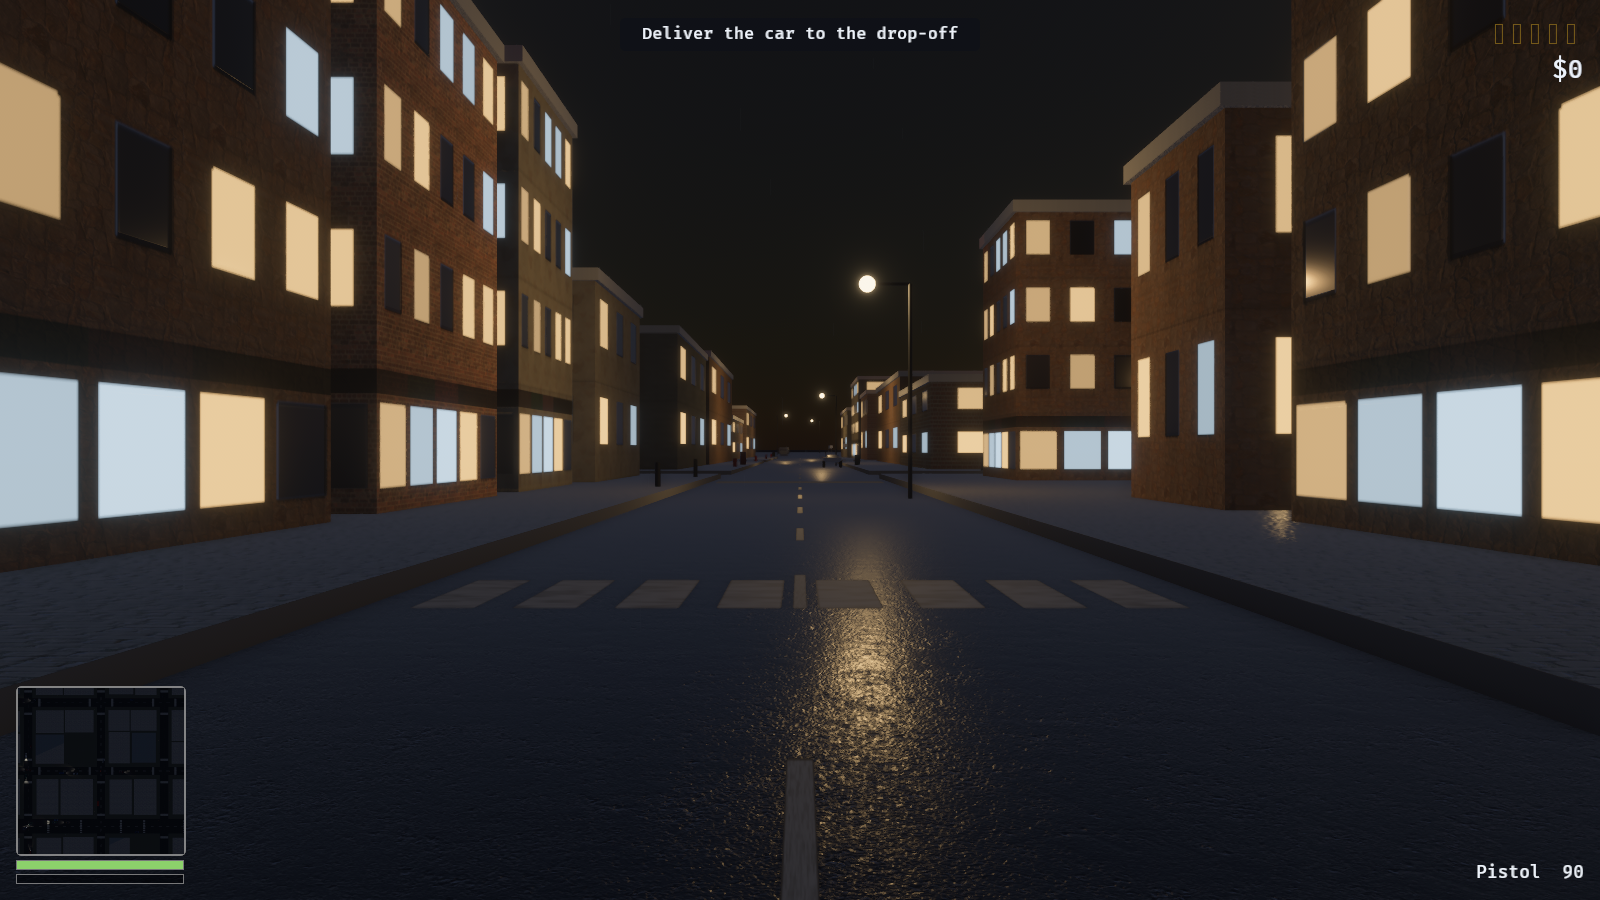
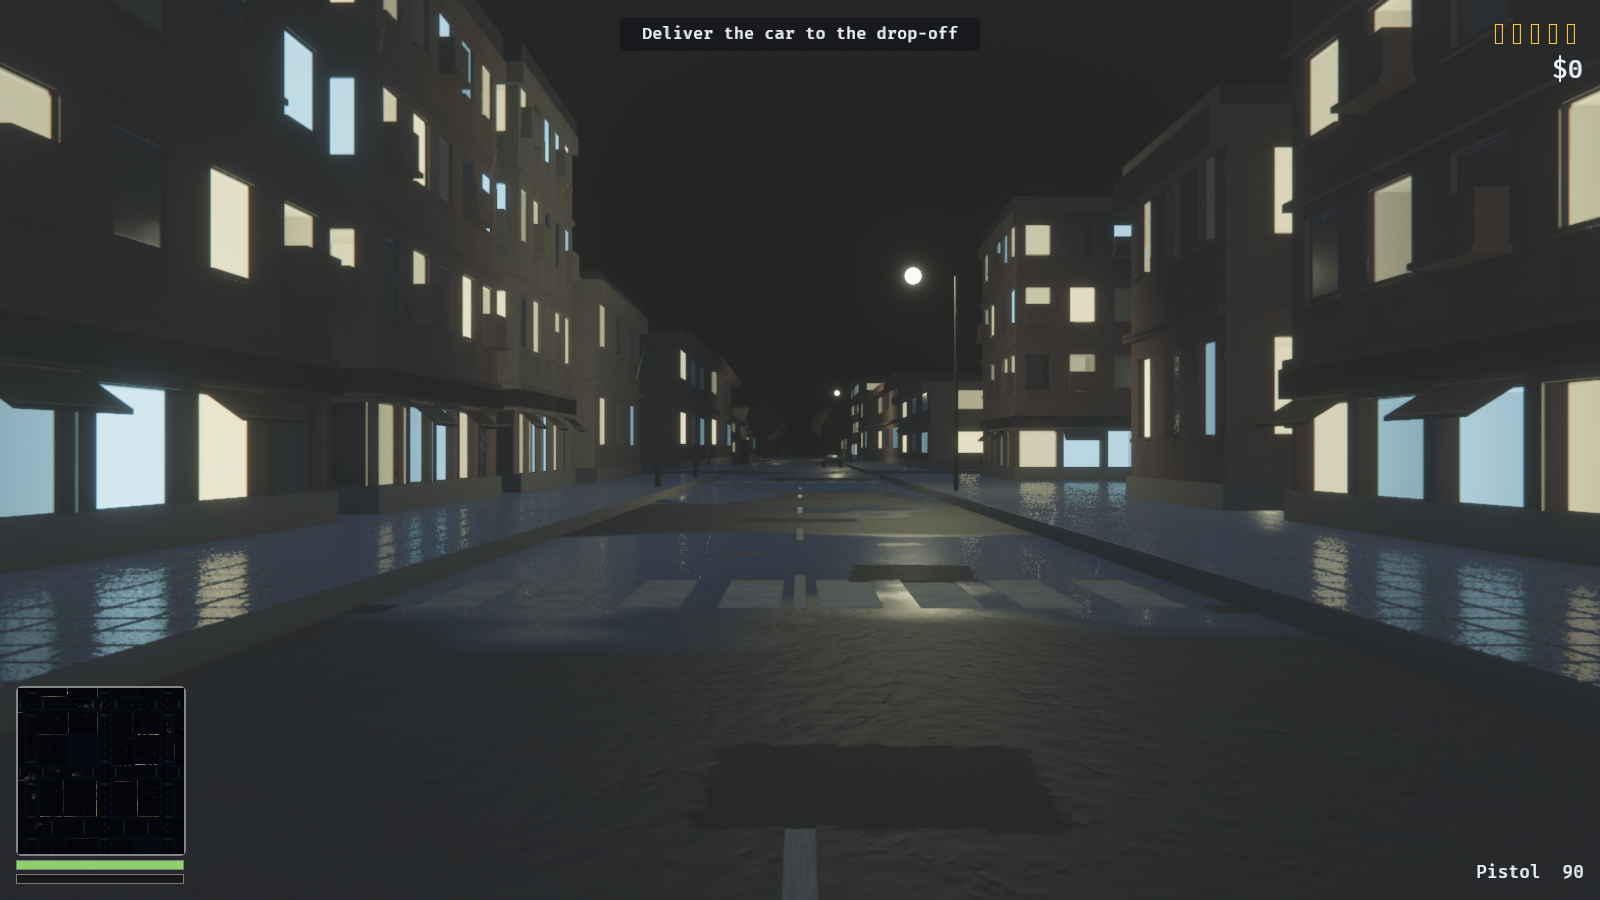
Refresh the gallery, and write the phase down
`shots/before` and `shots/after` were working comparisons for a phase
and went in by accident with a `git add -A`. They are gone from the tree
and into `.gitignore`; what ships is the README's own gallery, and four
of those images were badly stale — the bodywork shot predates the
building shells, the paint palette and the glazing entirely, and the
street and night shots both show a lamp post standing in the road. All
four are re-rendered.

README: the greenhouse and how its frame is cut out of its own loft, the
cabin liner and why it is geometry rather than a two-sided material,
fittings measured off the profile, plates, the flake normal map, and
volumetric beams. Skin, hair, hands and shoes under People. Four new
limitations, three of which are measurements rather than omissions —
anisotropy and the clearcoat normal have nowhere to go in the g-buffer,
refraction through a windscreen is sub-pixel, and a van's pane lies on
its bodywork rather than in a hole through it. Plus the eight shared
registrations and the low hairline. The stale claim that damage is not
visually modelled is gone; the section above it has described the dents
for some time.

Claude-Session: https://claude.ai/code/session_01UH4d5ypxjmnYu4vaSy1xav

diff --git a/src/ai/figure.rs b/src/ai/figure.rs
@@ -141,6 +141,24 @@ const _: () = {
         body::FEET + body::SHOE_HEIGHT * 0.5 >= -CAPSULE_HALF,
         "the shoes sink through the capsule"
     );
+    // A hairline below the chin is a balaclava and one above the crown is a
+    // beret. Neither fails, and neither is something anybody would report as a
+    // bug — they would just say the pedestrians look odd.
+    assert!(
+        body::HEAD_CENTRE + body::HAIR_RISE - body::HAIR_RADIUS * body::HAIR_FLATTEN
+            > body::HEAD_CENTRE - body::HEAD_RADIUS,
+        "the hair has swallowed the face"
+    );
+    assert!(
+        body::HEAD_CENTRE + body::HAIR_RISE - body::HAIR_RADIUS * body::HAIR_FLATTEN
+            < body::HEAD_CENTRE + body::HEAD_RADIUS,
+        "the hair is floating above the head"
+    );
+    // And wide enough to wrap it, or it sits on top like a lid.
+    assert!(
+        body::HAIR_RADIUS > body::HEAD_RADIUS,
+        "the hair is narrower than the head it is on"
+    );
 };
 
 pub fn build_assets(
@@ -240,8 +258,12 @@ pub fn dress(
             MeshMaterial3d(skin.clone()),
             Transform::from_xyz(0.0, body::HEAD_CENTRE, 0.0),
         ));
-        // Sat a little high and a little back, so it reads as hair rather than
-        // as a helmet: the forehead stays bare and the crown does not.
+        // A shade wider than the head and sat a little high and a little back,
+        // so the crown is covered and the face below it is not. The hairline
+        // this puts on a figure is low — the cap cannot rise much further and
+        // still fit inside the collider — but at the distance a pedestrian is
+        // seen it is the dark top to the silhouette that does the work, not
+        // where exactly it starts.
         parent.spawn((
             Torso,
             Mesh3d(assets.hair.clone()),

diff --git a/README.md b/README.md
@@ -222,6 +222,17 @@ capsule swings it about its middle, and a leg that does that is not walking.
 The stride is paced by distance covered rather than by time, so running takes
 faster steps instead of longer ones. The player wears the same figure.
 
+Skin is not cloth. It was, at roughness 0.88, which is as matte as a wool coat
+and takes no highlight at all — most of why a figure read as a mannequin. It
+has its own material now, closer to a half-gloss, plus a hair cap, hands on the
+ends of the sleeves and shoes on the ends of the legs. All four are silhouette
+work: at the distance a pedestrian is actually seen, a head that ends in a
+shape rather than fading into the background and a sleeve that ends in
+something are worth more than anything happening on the surfaces. Every
+proportion is checked at compile time against the collider capsule, because a
+figure that pokes out of its own collider is one that can be shot through the
+head without being hit.
+
 ## Roofs
 
 A building was two boxes: a wall and a capping slab. From the pavement that is
@@ -770,6 +781,12 @@ pursuit, and everything but the player's own car is positioned in the world.
   axis is scaled by the footprint's *other* side. A building twice as deep as it
   is wide has reveals twice as deep on its short faces. Lots are subdivided by
   always splitting the longer side, so the error stays under a factor of two.
+
+- A figure's hairline is low. The cap is a flattened sphere over the head and
+  it cannot rise much further without leaving the collider capsule, so it
+  covers more of the forehead than hair generally does. What it buys is the
+  dark top to the silhouette, which is the part that reads at the distance a
+  pedestrian is seen from; where exactly the hairline sits does not.
 
 - Trees lean, they do not flutter. A rigid rotation about the foot is honest for
   a swaying trunk and says nothing at all about leaves, and above a gale the
